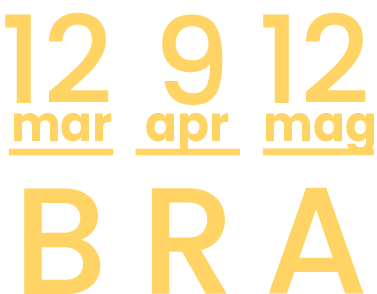
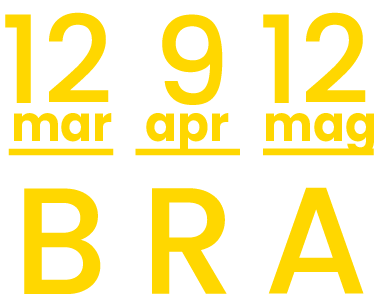
Add files via upload

diff --git a/index.html b/index.html
@@ -78,9 +78,31 @@
         <!-- SEZIONE 4: Transizione nera -->
         <section class="section-four-transition">
             <div class="section-four-buttons">
-                <a class="four-btn four-btn-blue" onclick="scrollToSection(0)">EVENTI PUBBLICI</a>
-                <a class="four-btn four-btn-green" onclick="scrollToSection(0.28)">OPERATORI / DOCENTI</a>
-                <a class="four-btn four-btn-orange" onclick="scrollToSection(0.55)">STUDENTI</a>
+                <a class="four-btn four-btn-blue" onclick="scrollToSection(0.05)">EVENTI PUBBLICI</a>
+                <a class="four-btn four-btn-green" onclick="scrollToSection(0.33)">OPERATORI / DOCENTI</a>
+                <a class="four-btn four-btn-orange" onclick="scrollToSection(0.60)">STUDENTI</a>
+            </div>
+
+            <div class="section-four-quotes">
+
+                <div class="quote-block">
+                    <p class="quote-name">Davide Fant, pedagogista, e Carlo Milani, tecnologo</p>
+                    <p class="quote-role">autori di "Pedagogia hacker"</p>
+                    <p class="quote-text">"La pedagogia hacker è un'attitudine attiva. Mira a modificare i comportamenti digitali che promuovono automatismi e per questo riducono la libertà di scelta. È un approccio educativo che coniuga l'apprendimento esperienziale, l'attitudine hacker, il gioco e un deciso orientamento libertario, per aumentare la consapevolezza rispetto ai nostri corpi-menti, individuali e collettivi".</p>
+                </div>
+
+                <div class="quote-block">
+                    <p class="quote-name">Angelo Bertolone</p>
+                    <p class="quote-role">CREMIT, Università Cattolica del Sacro Cuore</p>
+                    <p class="quote-text">L'intervento propone una lettura educativa dell'Intelligenza artificiale come ambiente di apprendimento. Attraverso vibe coding e prompt engineering, l'IA diventa spazio di progettazione e riflessione. L'obiettivo è sviluppare nuove competenze, promuovendo uno sguardo d'insieme sullo scenario tecnologico contemporaneo.</p>
+                </div>
+
+                <div class="quote-block">
+                    <p class="quote-name">Francesco Bocci</p>
+                    <p class="quote-role">Psicologo, Psicoterapeuta e Analista Adleriano, ideatore della Video Game Therapy®</p>
+                    <p class="quote-text">L'intervento illustrerà come la Video Game Therapy® utilizzi il videogioco quale strumento psicologico innovativo per promuovere il benessere e la crescita personale. Si esplorerà come il gaming possa diventare uno spazio sicuro di relazione, auto-esplorazione e sviluppo di competenze emotive e cognitive.</p>
+                </div>
+
             </div>
         </section>
 

diff --git a/styles.css b/styles.css
@@ -147,7 +147,7 @@ body {
 .section-two {
     position: relative;
     width: 100%;
-    height: 400px; /* Ridotto a 400px (era 600px) */
+    height: 400px;
     background: #000000;
     z-index: 4;
     padding: 60px 30px 60px 30px;
@@ -164,11 +164,11 @@ body {
 
 .description-text {
     font-family: 'Poppins', sans-serif;
-    font-size: clamp(0.95rem, 3.8vw, 1.15rem); /* Più piccolo: era 1.1rem-4.5vw-1.4rem */
+    font-size: clamp(0.95rem, 3.8vw, 1.15rem);
     font-weight: 400;
     color: #ffffff;
     line-height: 1.7;
-    text-align: center;
+    text-align: left;
     letter-spacing: 0.01em;
 }
 
@@ -627,17 +627,51 @@ body {
     box-shadow: 0 5px 15px rgba(255, 215, 0, 0.4);
 }
 
+.section-four-quotes {
+    padding: 60px 30px 40px;
+    display: flex;
+    flex-direction: column;
+    gap: 50px;
+}
+
+.quote-block {
+    border-left: 3px solid #ffd700;
+    padding-left: 20px;
+}
+
+.quote-name {
+    font-family: 'Bebas Neue', sans-serif;
+    font-size: clamp(1.1rem, 4vw, 1.4rem);
+    color: #ffffff;
+    letter-spacing: 0.05em;
+    margin: 0 0 4px 0;
+}
+
+.quote-role {
+    font-family: 'Poppins', sans-serif;
+    font-size: clamp(0.7rem, 2.5vw, 0.85rem);
+    color: #aaaaaa;
+    font-style: italic;
+    margin: 0 0 14px 0;
+}
+
+.quote-text {
+    font-family: 'Poppins', sans-serif;
+    font-size: clamp(0.75rem, 2.5vw, 0.9rem);
+    color: #dddddd;
+    line-height: 1.7;
+    margin: 0;
+}
+
 /* ========== SEZIONE 4: BOTTONI ========== */
 
 .section-four-buttons {
-    position: absolute;
-    top: 15%;
-    left: 50%;
-    transform: translateX(-50%);
+    position: relative;
     display: flex;
     flex-direction: column;
     gap: 36px;
     align-items: center;
+    padding: 60px 30px 20px;
 }
 
 .four-btn {
